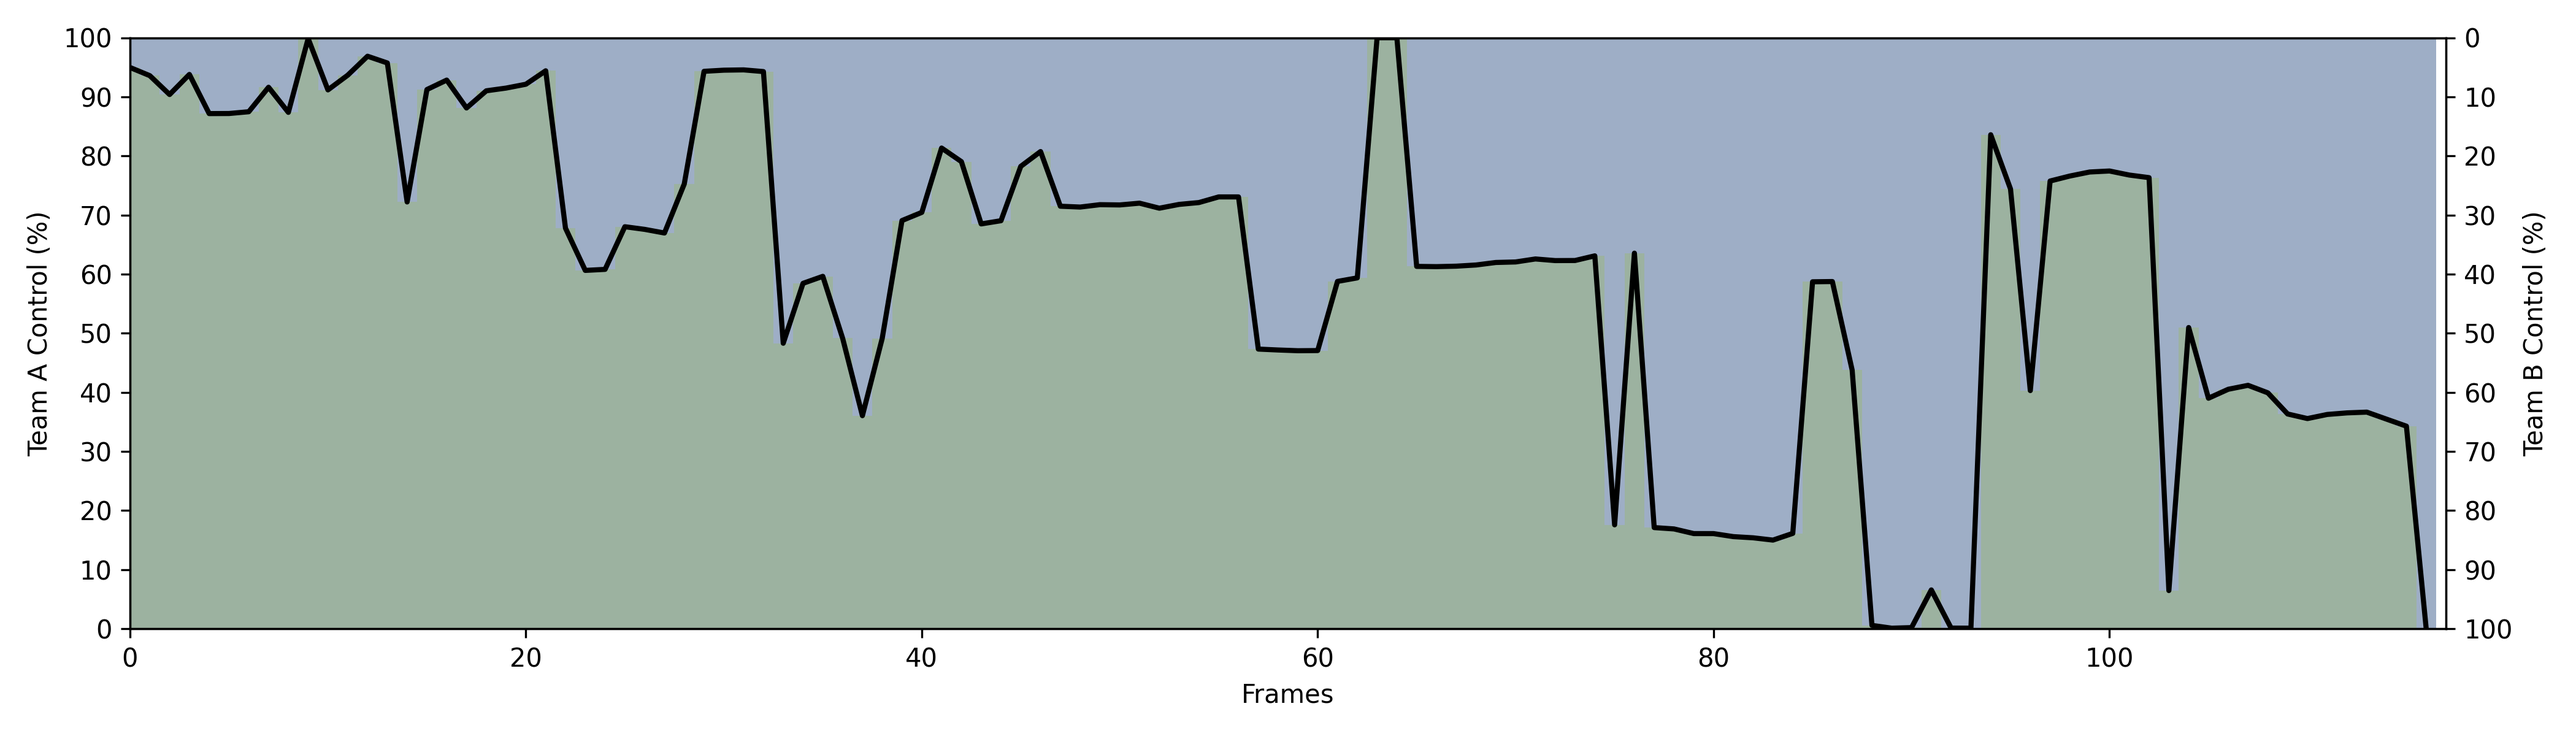
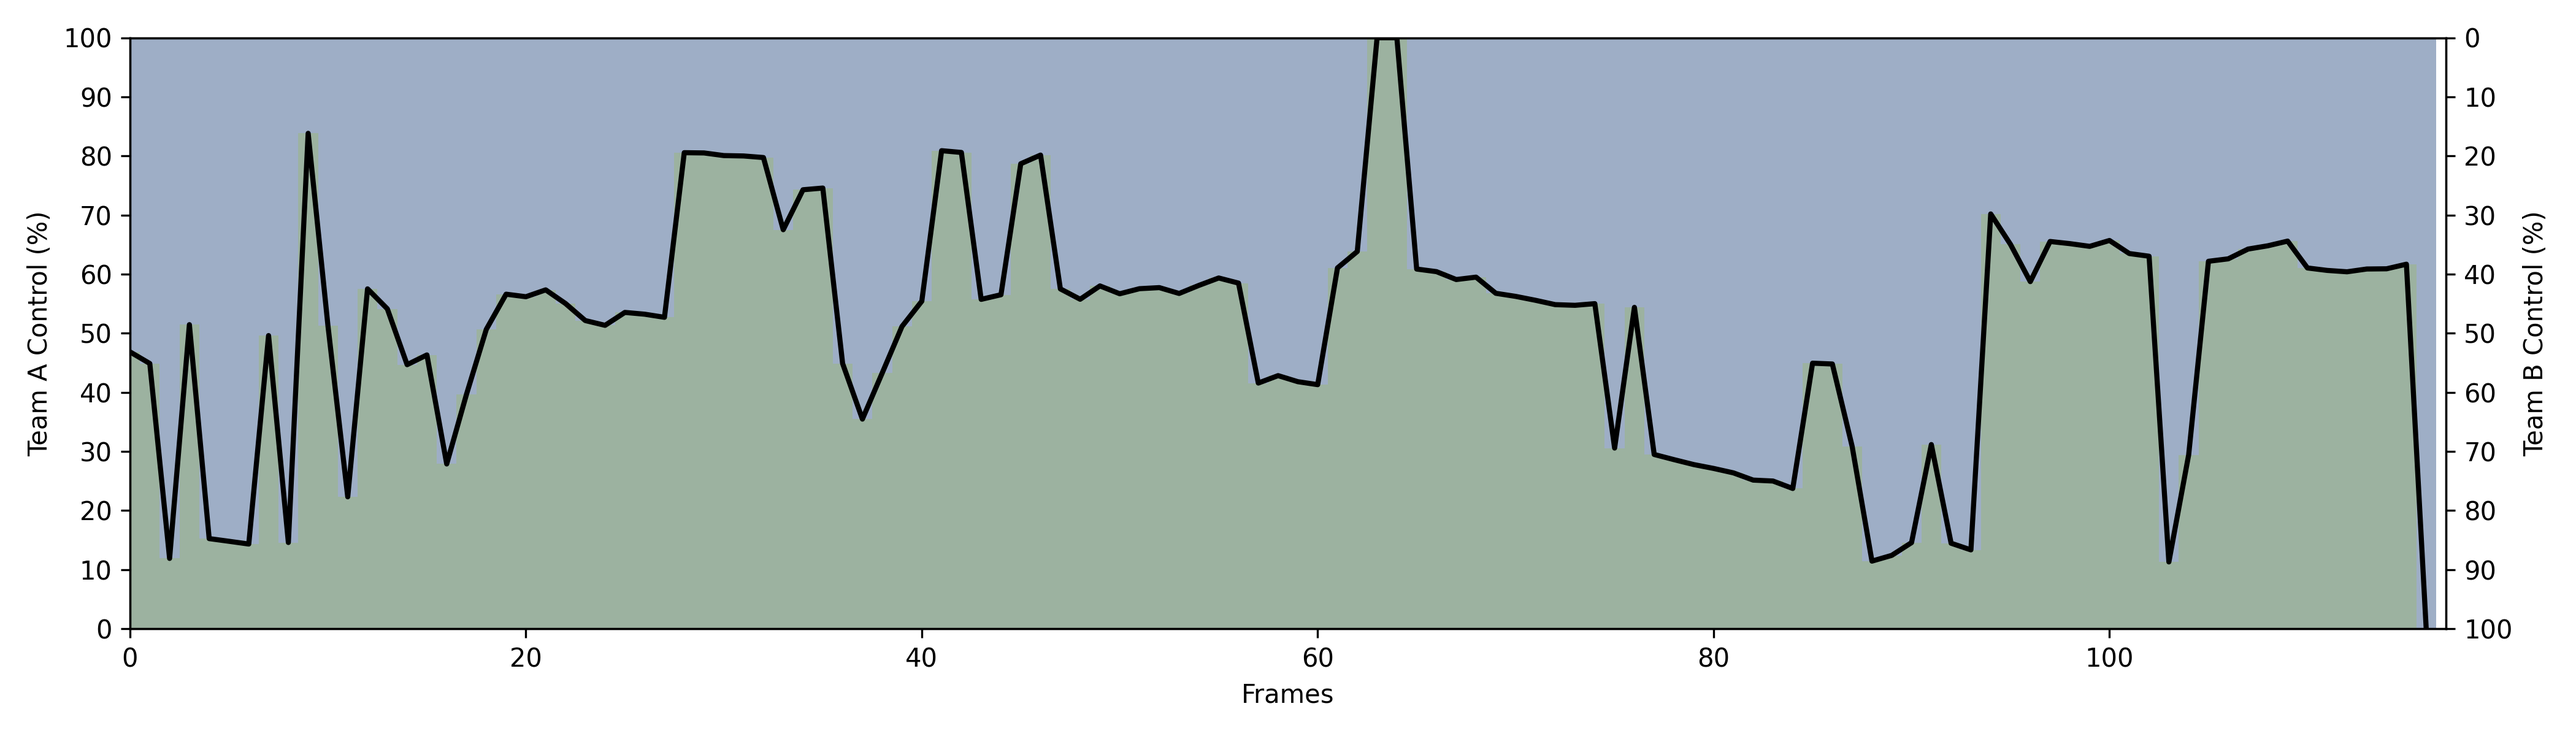
bug squashed, cv2 subdiv facets extend beyond border -> messes with area calc

diff --git a/canvas/top_down_overlay.py b/canvas/top_down_overlay.py
@@ -6,6 +6,8 @@ class TDOverlay:
         self.minimap_w = xz
         self.minimap_h = yz
 
+        self.video_area = xz * yz
+
         self.ref = cv2.imread(ref)
         self.ref_w, self.ref_h = self.ref.shape[:2]
 
@@ -51,14 +53,23 @@ class TDOverlay:
         facets, _ = subdiv.getVoronoiFacetList([])
         vor_minimap = minimap.copy()
         frame_control = {1: 0, 2: 0}
+
+        boundary_poly = np.array([
+            [0, 0], 
+            [self.minimap_w, 0], 
+            [self.minimap_w, self.minimap_h], 
+            [0, self.minimap_h]
+        ], dtype=np.float32)
+
         for facet, t in zip(facets, teams):
             facet = np.array(facet, dtype=np.int32)
 
-            frame_control[t] += cv2.contourArea(facet.astype(np.float32))
+            intersection_area, _ = cv2.intersectConvexConvex(facet, boundary_poly)
+            frame_control[t] += intersection_area / self.video_area
 
             cv2.fillConvexPoly(vor_minimap, facet, self.color[t], lineType=cv2.LINE_AA)
             cv2.polylines(vor_minimap, [facet], True, (0, 0, 0), 2, lineType=cv2.LINE_AA)
-        
+
         result = cv2.addWeighted(vor_minimap, alpha, minimap, 1-alpha, 0)
         return result, frame_control
     

diff --git a/process_ui.py b/process_ui.py
@@ -107,10 +107,11 @@ def possession_plot(x, y, video_name):
 def control_plot(control_stats, video_name):
     y_percent = []
     for frame in control_stats:
-        a = frame.get("1", "0")
-        b = frame.get("2", "0")
+        a = float(frame.get("1", 0))
+        b = float(frame.get("2", 0))
+
         total = a + b
-        if total == "0":
+        if total == 0:
             y_percent.append(50)
         else:
             y_percent.append((a / total) * 100)
